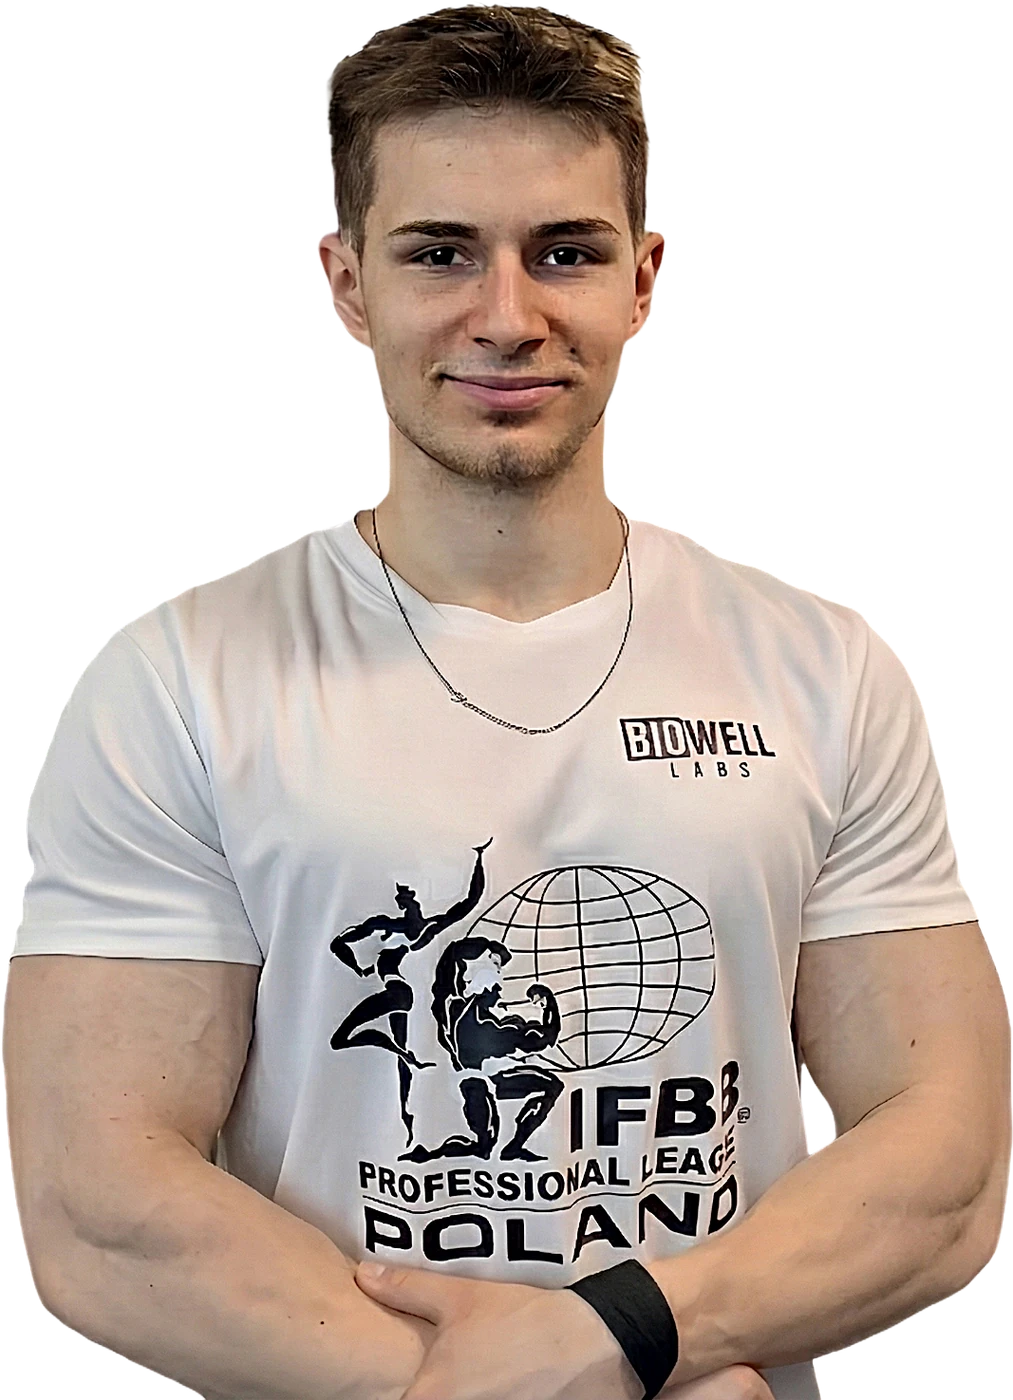
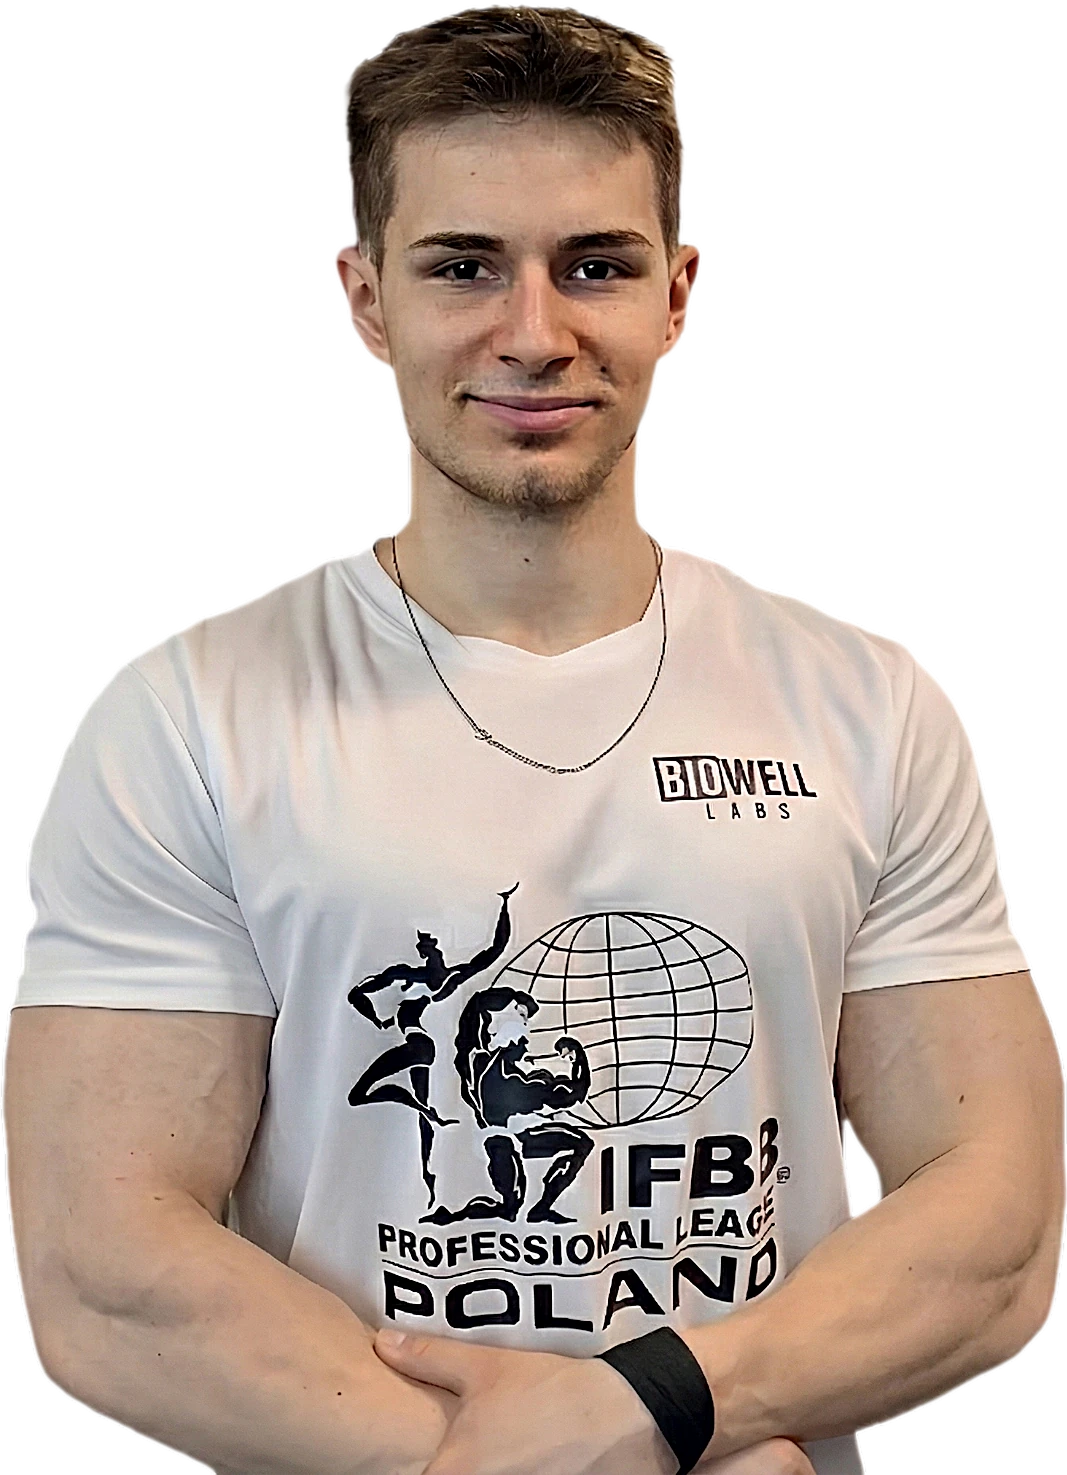
Hero: bez karty metamorfozy, zdjęcie wtopione w scenę

diff --git a/index.html b/index.html
@@ -17,7 +17,7 @@
   <link rel="preconnect" href="https://fonts.googleapis.com">
   <link rel="preconnect" href="https://fonts.gstatic.com" crossorigin>
   <link rel="stylesheet" href="https://fonts.googleapis.com/css2?family=Archivo:wdth,wght@100..125,700..900&family=Manrope:wght@500..800&display=swap">
-  <link rel="stylesheet" href="assets/css/style.css?v=1793301991">
+  <link rel="stylesheet" href="assets/css/style.css?v=1793302779">
   <script type="application/ld+json">[{"@context": "https://schema.org", "@type": "HealthAndBeautyBusiness", "name": "Kacper Gwizda — trener personalny", "description": "Trener personalny w Chełmży (Xtreme Fitness) i online: treningi 1-na-1 i DUO, plan treningowy, plan MAKRO, prowadzenie online.", "address": {"@type": "PostalAddress", "addressLocality": "Chełmża", "addressCountry": "PL"}, "telephone": "+48 669 170 704", "sameAs": ["https://www.instagram.com/trener_kacpergwizda/"], "areaServed": ["Chełmża", "Toruń", "Polska"]}, {"@context": "https://schema.org", "@type": "FAQPage", "mainEntity": [{"@type": "Question", "name": "Nigdy nie ćwiczyłem/am. Czy to dla mnie?", "acceptedAnswer": {"@type": "Answer", "text": "Tak — większość moich podopiecznych zaczynała od zera. Zaczynamy spokojnie, od ćwiczeń, które są bezpieczne dla Ciebie, i krok po kroku podnosimy poprzeczkę."}}, {"@type": "Question", "name": "Boli mnie kręgosłup. Mogę trenować?", "acceptedAnswer": {"@type": "Answer", "text": "Najczęściej właśnie trening pomaga — leżenie tylko utrwala ból. Sam mam skoliozę, więc wiem, jak to jest. Na konsultacji sprawdzimy, od czego bezpiecznie zacząć; przy poważnych dolegliwościach skonsultuj się też z lekarzem."}}, {"@type": "Question", "name": "Czy muszę przejść na dietę?", "acceptedAnswer": {"@type": "Answer", "text": "Nie musisz rezygnować z dobrego jedzenia. Uczę, jak jeść normalnie i trzymać się kilku prostych liczb (makro) — bez głodówek."}}, {"@type": "Question", "name": "Gdzie odbywają się treningi?", "acceptedAnswer": {"@type": "Answer", "text": "W Xtreme Fitness Chełmża (Kończewice 3C). Jeśli mieszkasz dalej — możemy działać online."}}, {"@type": "Question", "name": "Ile kosztuje konsultacja?", "acceptedAnswer": {"@type": "Answer", "text": "Konsultacja jest bezpłatna — to krótki trening demo, ocena sprawności i rozmowa o celu. Zero zobowiązań."}}, {"@type": "Question", "name": "Jak dostanę plan po zakupie online?", "acceptedAnswer": {"@type": "Answer", "text": "Po opłaceniu (BLIK, przelew lub karta) dostajesz e-mail z planem albo z formularzem startowym — automatycznie, zwykle w kilka minut."}}]}]</script>
 </head>
 <body data-root="" data-bar="default">
@@ -62,12 +62,8 @@
     </a>
   </div>
   <div class="stage stage--bust" data-anim style="--d:.25s">
-  <div class="stage__disc"></div><div class="stage__ring"></div>
-  <div class="stage__pw" style="aspect-ratio:1013/1400"><img class="stage__person" src="assets/img/real/kacper-hero.webp" width="1013" height="1400" alt="Kacper Gwizda — trener personalny" fetchpriority="high"></div>
-  <a class="float-card float-card--meta" href="#metamorfozy">
-    <span class="fm__imgs"><img src="assets/img/real/marta-przed.jpg" alt="" width="820" height="1367"><img src="assets/img/real/marta-po.jpg" alt="" width="820" height="1367"></span>
-    <small>Marta · 7 tygodni</small><b>−7 kg</b><span class="fm__go">Zobacz metamorfozy <svg viewBox="0 0 24 24" fill="none" stroke="currentColor" stroke-width="2" stroke-linecap="round" stroke-linejoin="round" aria-hidden="true"><path d="M5 12h14M13 6l6 6-6 6"/></svg></span>
-  </a>
+  <div class="stage__disc"></div><div class="stage__glow"></div>
+  <div class="stage__pw" style="aspect-ratio:1067/1475"><img class="stage__person" src="assets/img/real/kacper-hero.webp" width="1067" height="1475" alt="Kacper Gwizda — trener personalny" fetchpriority="high"></div>
   <div class="chip chip--a"><span class="chip__ico"><svg viewBox="0 0 24 24" fill="none" stroke="currentColor" stroke-width="2" stroke-linecap="round" stroke-linejoin="round" aria-hidden="true"><path d="M12 3v4M12 17v4M3 12h4M17 12h4M6 6l2.5 2.5M15.5 15.5 18 18M6 18l2.5-2.5M15.5 8.5 18 6"/></svg></span><span><b>Konsultacja 0 zł</b>bez zobowiązań</span></div>
   <div class="chip chip--b"><span class="chip__ico"><svg viewBox="0 0 24 24" fill="none" stroke="currentColor" stroke-width="2" stroke-linecap="round" stroke-linejoin="round" aria-hidden="true"><path d="M12 22s7-6.2 7-12a7 7 0 1 0-14 0c0 5.8 7 12 7 12z"/><circle cx="12" cy="10" r="2.5"/></svg></span><span><b>Xtreme Fitness</b>Chełmża i online</span></div>
 </div>
@@ -359,7 +355,7 @@
   Używam niezbędnych plików cookies, żeby działało zamówienie i zapamiętany motyw. Statystyki odwiedzin włączę tylko za Twoją zgodą. Szczegóły w <a href="polityka-prywatnosci.html#cookies">polityce cookies</a>.
   <div class="cookies__btns"><button class="btn btn--outline" type="button" data-cookies="necessary">Tylko niezbędne</button><button class="btn btn--accent" type="button" data-cookies="all">Akceptuję wszystkie</button></div>
 </div>
-<script src="assets/js/data.js?v=1793301991"></script>
-<script src="assets/js/app.js?v=1793301991"></script>
+<script src="assets/js/data.js?v=1793302779"></script>
+<script src="assets/js/app.js?v=1793302779"></script>
 </body>
 </html>

diff --git a/assets/css/style.css b/assets/css/style.css
@@ -1507,3 +1507,35 @@ a.contact-card:hover { border-color: var(--accent-deep); transform: translateY(-
   .hero h1 { font-size: 33px; }
   .hpath b { font-size: 14.5px; }
 }
+
+/* ===== Hero portrait: blended into the scene, not a sticker ===== */
+.stage.stage--bust { aspect-ratio: auto; height: clamp(480px, 46vw, 660px); max-width: 600px; align-self: end; margin-bottom: -104px; }
+.stage.stage--bust .stage__disc { inset: 6% 6% 22%; opacity: .75; filter: blur(14px); }
+.stage__glow {
+  position: absolute; inset: 0; pointer-events: none;
+  background: radial-gradient(42% 36% at 50% 30%, rgba(150, 110, 255, .42), transparent 72%),
+              radial-gradient(30% 28% at 78% 62%, rgba(209, 75, 191, .22), transparent 70%),
+              radial-gradient(30% 28% at 20% 66%, rgba(123, 92, 255, .2), transparent 70%);
+  filter: blur(6px);
+}
+/* the glow sits on the wrapper: a mask on the same element would clip it into a visible box */
+.stage.stage--bust .stage__pw {
+  left: 50%; bottom: 0; height: 100%; transform: translateX(-50%);
+  filter: drop-shadow(-10px -4px 22px rgba(140, 100, 255, .34)) drop-shadow(12px -2px 26px rgba(214, 100, 205, .22));
+}
+.stage.stage--bust .stage__person {
+  -webkit-mask-image: linear-gradient(to bottom, #000 66%, rgba(0, 0, 0, .55) 84%, transparent 99%);
+  mask-image: linear-gradient(to bottom, #000 66%, rgba(0, 0, 0, .55) 84%, transparent 99%);
+  filter: contrast(1.04) saturate(1.03);
+}
+.stage.stage--bust .chip--a { top: 14%; left: -2%; }
+.stage.stage--bust .chip--b { top: 44%; bottom: auto; left: auto; right: -2%; }
+@media (max-width: 1040px) {
+  .stage.stage--bust { height: min(100vw, 620px); margin: 18px auto -80px; }
+}
+@media (max-width: 760px) {
+  .stage.stage--bust { height: min(112vw, 520px); margin: 10px auto -52px; }
+  .stage.stage--bust .chip--a { top: 10%; left: -6px; }
+  .stage.stage--bust .chip--b { top: 50%; right: -6px; left: auto; }
+}
+@media (prefers-reduced-motion: reduce) { .stage__glow { filter: none; } }

diff --git a/produkt/plan-treningowy.html b/produkt/plan-treningowy.html
@@ -17,7 +17,7 @@
   <link rel="preconnect" href="https://fonts.googleapis.com">
   <link rel="preconnect" href="https://fonts.gstatic.com" crossorigin>
   <link rel="stylesheet" href="https://fonts.googleapis.com/css2?family=Archivo:wdth,wght@100..125,700..900&family=Manrope:wght@500..800&display=swap">
-  <link rel="stylesheet" href="../assets/css/style.css?v=1793301991">
+  <link rel="stylesheet" href="../assets/css/style.css?v=1793302779">
   <script type="application/ld+json">{"@context": "https://schema.org", "@type": "Product", "name": "Gotowe plany treningowe", "description": "Gotowy plan, w którym wiesz, co robić na każdym treningu. Dostajesz interaktywny arkusz z planem i progresją oraz PDF startowy z zasadami — bez zgadywania i bez strachu, że robisz coś źle.", "brand": {"@type": "Brand", "name": "Kacper Gwizda"}, "offers": {"@type": "Offer", "priceCurrency": "PLN", "price": "199.00", "availability": "https://schema.org/InStock"}}</script>
 </head>
 <body data-root="../" data-bar="buy">
@@ -239,7 +239,7 @@
   Używam niezbędnych plików cookies, żeby działało zamówienie i zapamiętany motyw. Statystyki odwiedzin włączę tylko za Twoją zgodą. Szczegóły w <a href="../polityka-prywatnosci.html#cookies">polityce cookies</a>.
   <div class="cookies__btns"><button class="btn btn--outline" type="button" data-cookies="necessary">Tylko niezbędne</button><button class="btn btn--accent" type="button" data-cookies="all">Akceptuję wszystkie</button></div>
 </div>
-<script src="../assets/js/data.js?v=1793301991"></script>
-<script src="../assets/js/app.js?v=1793301991"></script>
+<script src="../assets/js/data.js?v=1793302779"></script>
+<script src="../assets/js/app.js?v=1793302779"></script>
 </body>
 </html>

diff --git a/produkt/prowadzenie-online.html b/produkt/prowadzenie-online.html
@@ -17,7 +17,7 @@
   <link rel="preconnect" href="https://fonts.googleapis.com">
   <link rel="preconnect" href="https://fonts.gstatic.com" crossorigin>
   <link rel="stylesheet" href="https://fonts.googleapis.com/css2?family=Archivo:wdth,wght@100..125,700..900&family=Manrope:wght@500..800&display=swap">
-  <link rel="stylesheet" href="../assets/css/style.css?v=1793301991">
+  <link rel="stylesheet" href="../assets/css/style.css?v=1793302779">
   <script type="application/ld+json">{"@context": "https://schema.org", "@type": "Product", "name": "Prowadzenie online", "description": "Pracujemy razem, tylko na odległość. Układam plan treningowy i makro pod Ciebie, sprawdzam Twoje raporty i technikę z nagrań, a na pytania odpowiadam na bieżąco. Nie zostajesz sam.", "brand": {"@type": "Brand", "name": "Kacper Gwizda"}, "offers": {"@type": "AggregateOffer", "priceCurrency": "PLN", "lowPrice": "270.00", "availability": "https://schema.org/InStock"}}</script>
 </head>
 <body data-root="../" data-bar="buy">
@@ -239,7 +239,7 @@
   Używam niezbędnych plików cookies, żeby działało zamówienie i zapamiętany motyw. Statystyki odwiedzin włączę tylko za Twoją zgodą. Szczegóły w <a href="../polityka-prywatnosci.html#cookies">polityce cookies</a>.
   <div class="cookies__btns"><button class="btn btn--outline" type="button" data-cookies="necessary">Tylko niezbędne</button><button class="btn btn--accent" type="button" data-cookies="all">Akceptuję wszystkie</button></div>
 </div>
-<script src="../assets/js/data.js?v=1793301991"></script>
-<script src="../assets/js/app.js?v=1793301991"></script>
+<script src="../assets/js/data.js?v=1793302779"></script>
+<script src="../assets/js/app.js?v=1793302779"></script>
 </body>
 </html>

diff --git a/produkt/plan-makro.html b/produkt/plan-makro.html
@@ -17,7 +17,7 @@
   <link rel="preconnect" href="https://fonts.googleapis.com">
   <link rel="preconnect" href="https://fonts.gstatic.com" crossorigin>
   <link rel="stylesheet" href="https://fonts.googleapis.com/css2?family=Archivo:wdth,wght@100..125,700..900&family=Manrope:wght@500..800&display=swap">
-  <link rel="stylesheet" href="../assets/css/style.css?v=1793301991">
+  <link rel="stylesheet" href="../assets/css/style.css?v=1793302779">
   <script type="application/ld+json">{"@context": "https://schema.org", "@type": "Product", "name": "Plan MAKRO", "description": "Wyliczam Twoje kalorie i makro pod cel. Bez sztywnej diety i pudełek — jesz normalne jedzenie, które lubisz, a ja uczę Cię, jak trzymać się kluczowych liczb.", "brand": {"@type": "Brand", "name": "Kacper Gwizda"}, "offers": {"@type": "Offer", "priceCurrency": "PLN", "price": "79.00", "availability": "https://schema.org/InStock"}}</script>
 </head>
 <body data-root="../" data-bar="buy">
@@ -239,7 +239,7 @@
   Używam niezbędnych plików cookies, żeby działało zamówienie i zapamiętany motyw. Statystyki odwiedzin włączę tylko za Twoją zgodą. Szczegóły w <a href="../polityka-prywatnosci.html#cookies">polityce cookies</a>.
   <div class="cookies__btns"><button class="btn btn--outline" type="button" data-cookies="necessary">Tylko niezbędne</button><button class="btn btn--accent" type="button" data-cookies="all">Akceptuję wszystkie</button></div>
 </div>
-<script src="../assets/js/data.js?v=1793301991"></script>
-<script src="../assets/js/app.js?v=1793301991"></script>
+<script src="../assets/js/data.js?v=1793302779"></script>
+<script src="../assets/js/app.js?v=1793302779"></script>
 </body>
 </html>

diff --git a/blog/jak-zrzucic-brzuch-bez-glodowki.html b/blog/jak-zrzucic-brzuch-bez-glodowki.html
@@ -17,7 +17,7 @@
   <link rel="preconnect" href="https://fonts.googleapis.com">
   <link rel="preconnect" href="https://fonts.gstatic.com" crossorigin>
   <link rel="stylesheet" href="https://fonts.googleapis.com/css2?family=Archivo:wdth,wght@100..125,700..900&family=Manrope:wght@500..800&display=swap">
-  <link rel="stylesheet" href="../assets/css/style.css?v=1793301991">
+  <link rel="stylesheet" href="../assets/css/style.css?v=1793302779">
   <script type="application/ld+json">{"@context": "https://schema.org", "@type": "Article", "headline": "Jak zrzucić brzuch bez głodówki i rezygnacji z ulubionego jedzenia", "datePublished": "2026-10-08", "author": {"@type": "Person", "name": "Kacper Gwizda"}}</script>
 </head>
 <body data-root="../" data-bar="default">
@@ -115,7 +115,7 @@
   Używam niezbędnych plików cookies, żeby działało zamówienie i zapamiętany motyw. Statystyki odwiedzin włączę tylko za Twoją zgodą. Szczegóły w <a href="../polityka-prywatnosci.html#cookies">polityce cookies</a>.
   <div class="cookies__btns"><button class="btn btn--outline" type="button" data-cookies="necessary">Tylko niezbędne</button><button class="btn btn--accent" type="button" data-cookies="all">Akceptuję wszystkie</button></div>
 </div>
-<script src="../assets/js/data.js?v=1793301991"></script>
-<script src="../assets/js/app.js?v=1793301991"></script>
+<script src="../assets/js/data.js?v=1793302779"></script>
+<script src="../assets/js/app.js?v=1793302779"></script>
 </body>
 </html>

diff --git a/blog/boje-sie-silowni.html b/blog/boje-sie-silowni.html
@@ -17,7 +17,7 @@
   <link rel="preconnect" href="https://fonts.googleapis.com">
   <link rel="preconnect" href="https://fonts.gstatic.com" crossorigin>
   <link rel="stylesheet" href="https://fonts.googleapis.com/css2?family=Archivo:wdth,wght@100..125,700..900&family=Manrope:wght@500..800&display=swap">
-  <link rel="stylesheet" href="../assets/css/style.css?v=1793301991">
+  <link rel="stylesheet" href="../assets/css/style.css?v=1793302779">
   <script type="application/ld+json">{"@context": "https://schema.org", "@type": "Article", "headline": "Boisz się siłowni? Tak zaczyna większość moich podopiecznych", "datePublished": "2026-09-27", "author": {"@type": "Person", "name": "Kacper Gwizda"}}</script>
 </head>
 <body data-root="../" data-bar="default">
@@ -115,7 +115,7 @@
   Używam niezbędnych plików cookies, żeby działało zamówienie i zapamiętany motyw. Statystyki odwiedzin włączę tylko za Twoją zgodą. Szczegóły w <a href="../polityka-prywatnosci.html#cookies">polityce cookies</a>.
   <div class="cookies__btns"><button class="btn btn--outline" type="button" data-cookies="necessary">Tylko niezbędne</button><button class="btn btn--accent" type="button" data-cookies="all">Akceptuję wszystkie</button></div>
 </div>
-<script src="../assets/js/data.js?v=1793301991"></script>
-<script src="../assets/js/app.js?v=1793301991"></script>
+<script src="../assets/js/data.js?v=1793302779"></script>
+<script src="../assets/js/app.js?v=1793302779"></script>
 </body>
 </html>

diff --git a/blog/boli-cie-kregoslup-od-siedzenia.html b/blog/boli-cie-kregoslup-od-siedzenia.html
@@ -17,7 +17,7 @@
   <link rel="preconnect" href="https://fonts.googleapis.com">
   <link rel="preconnect" href="https://fonts.gstatic.com" crossorigin>
   <link rel="stylesheet" href="https://fonts.googleapis.com/css2?family=Archivo:wdth,wght@100..125,700..900&family=Manrope:wght@500..800&display=swap">
-  <link rel="stylesheet" href="../assets/css/style.css?v=1793301991">
+  <link rel="stylesheet" href="../assets/css/style.css?v=1793302779">
   <script type="application/ld+json">{"@context": "https://schema.org", "@type": "Article", "headline": "Boli Cię kręgosłup od siedzenia? Leżenie nie pomoże", "datePublished": "2026-10-20", "author": {"@type": "Person", "name": "Kacper Gwizda"}}</script>
 </head>
 <body data-root="../" data-bar="default">
@@ -115,7 +115,7 @@
   Używam niezbędnych plików cookies, żeby działało zamówienie i zapamiętany motyw. Statystyki odwiedzin włączę tylko za Twoją zgodą. Szczegóły w <a href="../polityka-prywatnosci.html#cookies">polityce cookies</a>.
   <div class="cookies__btns"><button class="btn btn--outline" type="button" data-cookies="necessary">Tylko niezbędne</button><button class="btn btn--accent" type="button" data-cookies="all">Akceptuję wszystkie</button></div>
 </div>
-<script src="../assets/js/data.js?v=1793301991"></script>
-<script src="../assets/js/app.js?v=1793301991"></script>
+<script src="../assets/js/data.js?v=1793302779"></script>
+<script src="../assets/js/app.js?v=1793302779"></script>
 </body>
 </html>

diff --git a/blog.html b/blog.html
@@ -17,7 +17,7 @@
   <link rel="preconnect" href="https://fonts.googleapis.com">
   <link rel="preconnect" href="https://fonts.gstatic.com" crossorigin>
   <link rel="stylesheet" href="https://fonts.googleapis.com/css2?family=Archivo:wdth,wght@100..125,700..900&family=Manrope:wght@500..800&display=swap">
-  <link rel="stylesheet" href="assets/css/style.css?v=1793301991">
+  <link rel="stylesheet" href="assets/css/style.css?v=1793302779">
 </head>
 <body data-root="" data-bar="default">
 <a class="skip" href="#main">Przejdź do treści</a>
@@ -109,7 +109,7 @@
   Używam niezbędnych plików cookies, żeby działało zamówienie i zapamiętany motyw. Statystyki odwiedzin włączę tylko za Twoją zgodą. Szczegóły w <a href="polityka-prywatnosci.html#cookies">polityce cookies</a>.
   <div class="cookies__btns"><button class="btn btn--outline" type="button" data-cookies="necessary">Tylko niezbędne</button><button class="btn btn--accent" type="button" data-cookies="all">Akceptuję wszystkie</button></div>
 </div>
-<script src="assets/js/data.js?v=1793301991"></script>
-<script src="assets/js/app.js?v=1793301991"></script>
+<script src="assets/js/data.js?v=1793302779"></script>
+<script src="assets/js/app.js?v=1793302779"></script>
 </body>
 </html>

diff --git a/kontakt.html b/kontakt.html
@@ -17,7 +17,7 @@
   <link rel="preconnect" href="https://fonts.googleapis.com">
   <link rel="preconnect" href="https://fonts.gstatic.com" crossorigin>
   <link rel="stylesheet" href="https://fonts.googleapis.com/css2?family=Archivo:wdth,wght@100..125,700..900&family=Manrope:wght@500..800&display=swap">
-  <link rel="stylesheet" href="assets/css/style.css?v=1793301991">
+  <link rel="stylesheet" href="assets/css/style.css?v=1793302779">
 </head>
 <body data-root="" data-bar="default">
 <a class="skip" href="#main">Przejdź do treści</a>
@@ -137,7 +137,7 @@
   Używam niezbędnych plików cookies, żeby działało zamówienie i zapamiętany motyw. Statystyki odwiedzin włączę tylko za Twoją zgodą. Szczegóły w <a href="polityka-prywatnosci.html#cookies">polityce cookies</a>.
   <div class="cookies__btns"><button class="btn btn--outline" type="button" data-cookies="necessary">Tylko niezbędne</button><button class="btn btn--accent" type="button" data-cookies="all">Akceptuję wszystkie</button></div>
 </div>
-<script src="assets/js/data.js?v=1793301991"></script>
-<script src="assets/js/app.js?v=1793301991"></script>
+<script src="assets/js/data.js?v=1793302779"></script>
+<script src="assets/js/app.js?v=1793302779"></script>
 </body>
 </html>

diff --git a/metamorfozy.html b/metamorfozy.html
@@ -17,7 +17,7 @@
   <link rel="preconnect" href="https://fonts.googleapis.com">
   <link rel="preconnect" href="https://fonts.gstatic.com" crossorigin>
   <link rel="stylesheet" href="https://fonts.googleapis.com/css2?family=Archivo:wdth,wght@100..125,700..900&family=Manrope:wght@500..800&display=swap">
-  <link rel="stylesheet" href="assets/css/style.css?v=1793301991">
+  <link rel="stylesheet" href="assets/css/style.css?v=1793302779">
 </head>
 <body data-root="" data-bar="default">
 <a class="skip" href="#main">Przejdź do treści</a>
@@ -241,7 +241,7 @@
   Używam niezbędnych plików cookies, żeby działało zamówienie i zapamiętany motyw. Statystyki odwiedzin włączę tylko za Twoją zgodą. Szczegóły w <a href="polityka-prywatnosci.html#cookies">polityce cookies</a>.
   <div class="cookies__btns"><button class="btn btn--outline" type="button" data-cookies="necessary">Tylko niezbędne</button><button class="btn btn--accent" type="button" data-cookies="all">Akceptuję wszystkie</button></div>
 </div>
-<script src="assets/js/data.js?v=1793301991"></script>
-<script src="assets/js/app.js?v=1793301991"></script>
+<script src="assets/js/data.js?v=1793302779"></script>
+<script src="assets/js/app.js?v=1793302779"></script>
 </body>
 </html>

diff --git a/o-mnie.html b/o-mnie.html
@@ -17,7 +17,7 @@
   <link rel="preconnect" href="https://fonts.googleapis.com">
   <link rel="preconnect" href="https://fonts.gstatic.com" crossorigin>
   <link rel="stylesheet" href="https://fonts.googleapis.com/css2?family=Archivo:wdth,wght@100..125,700..900&family=Manrope:wght@500..800&display=swap">
-  <link rel="stylesheet" href="assets/css/style.css?v=1793301991">
+  <link rel="stylesheet" href="assets/css/style.css?v=1793302779">
 </head>
 <body data-root="" data-bar="default">
 <a class="skip" href="#main">Przejdź do treści</a>
@@ -144,7 +144,7 @@
   Używam niezbędnych plików cookies, żeby działało zamówienie i zapamiętany motyw. Statystyki odwiedzin włączę tylko za Twoją zgodą. Szczegóły w <a href="polityka-prywatnosci.html#cookies">polityce cookies</a>.
   <div class="cookies__btns"><button class="btn btn--outline" type="button" data-cookies="necessary">Tylko niezbędne</button><button class="btn btn--accent" type="button" data-cookies="all">Akceptuję wszystkie</button></div>
 </div>
-<script src="assets/js/data.js?v=1793301991"></script>
-<script src="assets/js/app.js?v=1793301991"></script>
+<script src="assets/js/data.js?v=1793302779"></script>
+<script src="assets/js/app.js?v=1793302779"></script>
 </body>
 </html>
